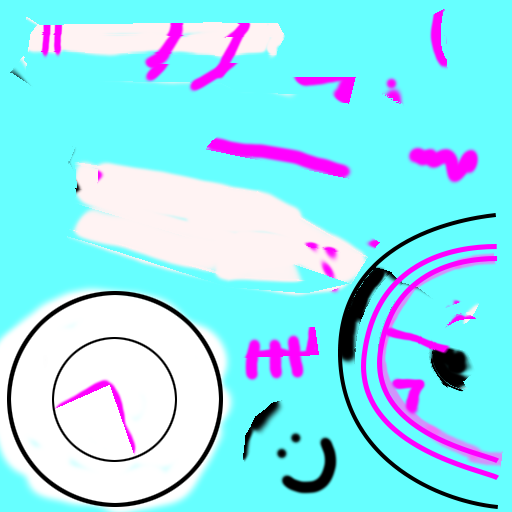
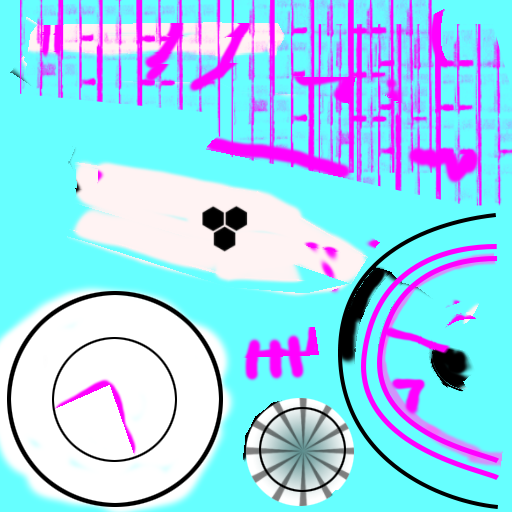
better thrusters

Changed region(s): [[0.0312, 0.0, 1.0, 0.4062], [0.4688, 0.75, 0.7188, 1.0], [0.375, 0.4062, 0.5, 0.5]]

diff --git a/cgajam_racer.cpp b/cgajam_racer.cpp
@@ -603,7 +603,7 @@ int main()
     Shader worldShader = LoadShader( (char *)"world.vs", (char *)"world.fs");
     Shader worldMtlShader = LoadShader( (char *)"world.vs", (char *)"world_mtl.fs");
     Shader cgaShader = LoadShader( (char *)"cga_enforce.vs", (char *)"cga_enforce.fs");
-    paramMirrorMode = GetShaderLocation( cgaShader, "mirrorMode" );
+    paramMirrorMode = GetShaderLocation( cgaShader, "FPSmirrorMode" );
 
     soloud_music.load("turbo_electric_16pcm.wav"); 
     // Shorter excerpt for faster load during testing..
@@ -1118,8 +1118,12 @@ int main()
             // Thrusters (todo, more faded, like  temperature)
 
             // 301, 447
-            DrawCircle( 301, 512-447, 48*throttle, (Color)WHITE );
-            DrawCircle( 301, 512-447, 20*throttle, (Color)CGA_MAGENTA );
+            float thrusterRing = 0.5+(gridSz*0.5);
+            if (gameMode == GameMode_GAME) {
+                thrusterRing *= throttle;
+            }
+            DrawCircle( 301, 512-447, 60*thrusterRing, (Color)WHITE );
+            DrawCircle( 301, 512-447, 50*thrusterRing*thrusterRing, (Color)CGA_MAGENTA );
 
             //127, 29 wh 59, 20
             if (brake) {
@@ -1260,6 +1264,7 @@ int main()
             }
 
             // DBG: show track param 
+            #if 0
             if (gameMode == GameMode_TITLE) {
                 //char pbuf[98];
                 char pbuf[10];
@@ -1269,8 +1274,9 @@ int main()
                 sprintf( pbuf, "P: %3.4f", attractP );
                 DrawText( pbuf, 10, 10, 12, (Color)ORANGE );
             }
+            #endif
 
-            DrawFPS(15, screenHeight - 20);
+            //DrawFPS(15, screenHeight - 20);
 
         EndDrawing();
         //----------------------------------------------------------------------------------
